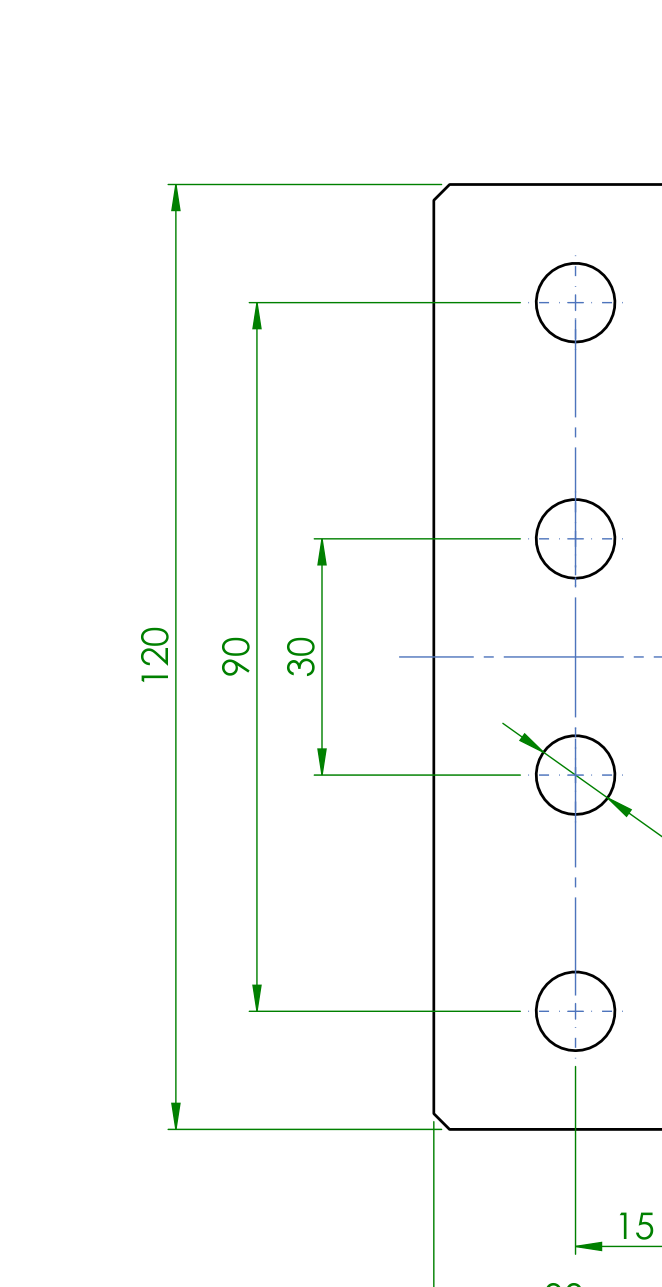
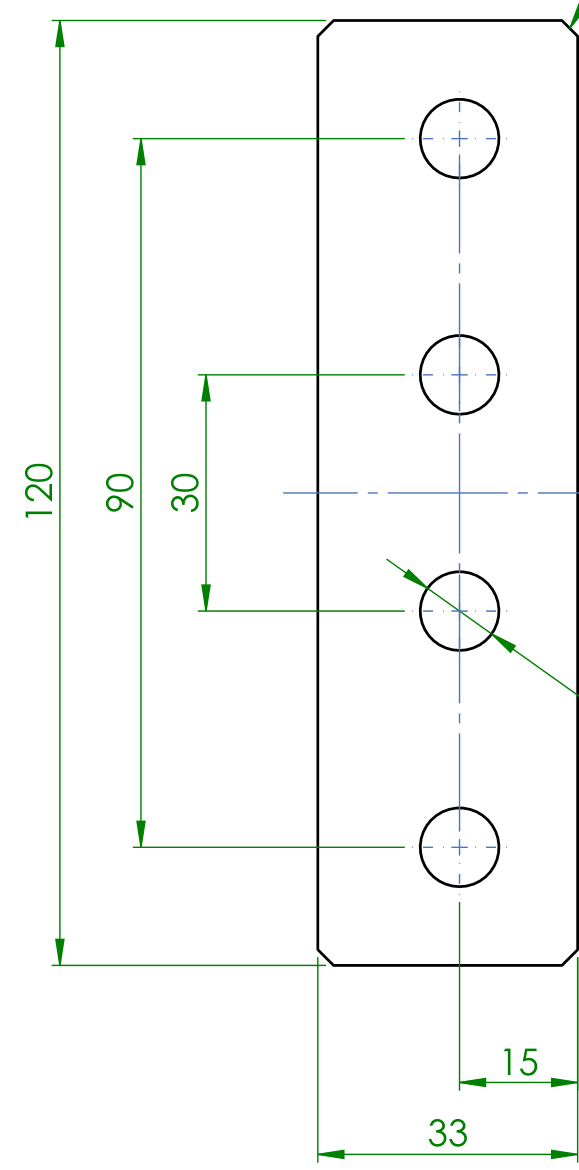
Much better cropped images from the localization stage. I think i can move on to classification now but i still want to make the cropped images better because currently the borders are very tight and some pieces of geometry might get cropped for complex drawings

diff --git a/Stage_1_Localization_new_structure.py b/Stage_1_Localization_new_structure.py
@@ -29,26 +29,46 @@ response = ollama.chat(
             "content" :"""You are an expert engineering drawing parser.
                         Analyze this technical drawing image and detect ALL distinct visual components on the page.
                         
-                        Extract bounding boxes in 0-1000 normalized coordinates [ymin, xmin, ymax, xmax] for every instance of:
+                        Extract bounding boxes in 0-1000 normalized coordinates [x0, y0, x1, y1] for every instance of:
                         1. "title_block": The entire metadata table in the bottom-right corner (include revisions, tolerances, company logos).
                         2. "orthographic_view": 2D projected engineering views (front, top, side) including their surrounding dimension lines.
                         3. "isometric_view": 3D projected views of the component.
                         4. "section_view": Sectional view of a component showing an internal cut.
                         5. "flat_pattern": Unfolded sheet metal layout views, if present.
                         
-                        Return ONLY a valid JSON object matching this exact schema:
-                        {
-                          "regions": 
-                          [
-                            {
-                              "label": "title_block",
-                              "box": [x0, y0, x1, y1],
-                              "conf": 0.95
-                            }
-                          ]
-                        }""",
+                        Only include a region if it is actually present in the image.
+                        If multiple instances of the same region type are present, create a separate entry for each instance.
+                        Do not stop after detecting one region. Inspect the entire page for all region types before returning the JSON.
                         
-            "images": [image_path]
+                        Return ONLY a valid JSON object matching this exact schema:
+                          {
+                            "regions": [
+                              {
+                                "label": "title_block",
+                                "box": [x0, y0, x1, y1],
+                                "conf": 0.95
+                              },
+                              {
+                                "label": "orthographic_view",
+                                "box": [x0, y0, x1, y1],
+                                "conf": 0.95
+                              },
+                              {
+                                "label": "orthographic_view",
+                                "box": [x0, y0, x1, y1],
+                                "conf": 0.95
+                              },
+                              {
+                                "label": "section_view",
+                                "box": [x0, y0, x1, y1],
+                                "conf": 0.95
+                              }
+                            ]
+                          }
+                          
+                        """,
+                        
+            "images": [image_path]  
         }
     ],
     format = "json",
@@ -67,7 +87,7 @@ response = ollama.chat(
 #         content
 #we want to access the content only
 
-print(repr(response["message"]["content"])) #repr() is used to display any empty strings as output
+# print(repr(response["message"]["content"])) #repr() is used to display any empty strings as output
 
 # Output is: 
 # {
@@ -115,9 +135,10 @@ isometric_view_normalised_box = []
 section_view_normalised_box = []
 title_block_normalised_box = []
 
-for i in regions:
-  label = i["label"] # take the value of label of one particular dictionary in the list regions and store it in a separate variable
-  box = i["box"]
+# let's write a loop to cycle through all the output dictionries and store bounding boxes of each category to its own dedicated list
+for region in regions:
+  label = region["label"] # take the value of label of one particular dictionary in the list regions and store it in a separate variable
+  box = region["box"]
   
   if label == "orthographic_view":
     orthographic_view_normalised_box.append(box)
@@ -140,3 +161,57 @@ print("Orthographic View:", orthographic_view_normalised_box )
 print("Isometric View:", isometric_view_normalised_box)
 print("Section View", section_view_normalised_box)
 print("Title Block", title_block_normalised_box)
+
+image = cv2.imread(image_path) # read the image converted from pdf input to get image width and image height
+image_height, image_width, channels = image.shape  #image.shape returns [height, width, channels]
+
+# Now lets make a function for changing the normalized bounding box coordinates to pixel values
+def normalized_to_pixel(image_height, image_width, bounding_boxes):
+    # since bounding_boxes is a collection of list each with 4 coordinates in form [x0,y0,x1,y1]
+    boxes = []
+    
+    for i in range(0, len(bounding_boxes)):
+        bounding_box = bounding_boxes[i]
+        x0,y0,x1,y1 = bounding_box
+        
+        #lets scale them from 0-1000 to 0-image_width and 0-image_height
+        x0 = (x0/1000) * image_width
+        y0 = (y0/1000) * image_height
+        x1 = (x1/1000) * image_width
+        y1 = (y1/1000) * image_height
+        boxes.append([int(x0),int(y0),int(x1),int(y1)])  #typecasting to int because pixel coordinates must be integers
+    return boxes
+
+
+# lets scale the coordinates and crop the image right at these coordinates
+# opencv can directly crop and save the images with this function: crop = image[y0:y1, x0:x1]
+
+# first lets un-normailise the bounding boxes into pixel coordinates:
+flat_pattern_pixel_bounding_box = normalized_to_pixel(image_height, image_width, flat_pattern_normalised_box)
+orthographic_view_pixel_bounding_box = normalized_to_pixel(image_height, image_width, orthographic_view_normalised_box)
+isometric_view_pixel_bounding_box = normalized_to_pixel(image_height, image_width, isometric_view_normalised_box)
+section_view_pixel_bounding_box = normalized_to_pixel(image_height, image_width, section_view_normalised_box)
+title_block_pixel_bounding_box = normalized_to_pixel(image_height, image_width, title_block_normalised_box)
+
+# # now lets crop the images and save them in the output folder
+# x0, y0, x1, y1 = title_block_pixel_bounding_box[0] #since there is only one title block, we can directly access the first element of the list
+# crop = image[y0:y1, x0:x1]
+
+# cv2.imwrite("Stage_1_Output_cropped_images/title_block_cropped.png", crop) #saving the cropped image in the output folder
+
+# now lets make a generic crop function that can work for lists with multiple bounding boxes and also for the ones with empty lists
+
+def crop_and_save_image(bounding_boxes, image_name):
+    for i in range (len(bounding_boxes)):
+        bounding_box = bounding_boxes[i]
+        x0,y0,x1,y1 = bounding_box
+        
+        crop = image [y0:y1, x0:x1]
+        cv2.imwrite(f"Stage_1_Output_cropped_images/{image_name}_{i+1}.png", crop)
+
+
+crop_and_save_image(flat_pattern_pixel_bounding_box, "flat_pattern_pixel_bounding_box")
+crop_and_save_image(orthographic_view_pixel_bounding_box, "orthographic_view_pixel_bounding_box")
+crop_and_save_image(isometric_view_pixel_bounding_box, "isometric_view_pixel_bounding_box")
+crop_and_save_image(section_view_pixel_bounding_box, "section_view_pixel_bounding_box") 
+crop_and_save_image(title_block_pixel_bounding_box, "title_block_pixel_bounding_box")
